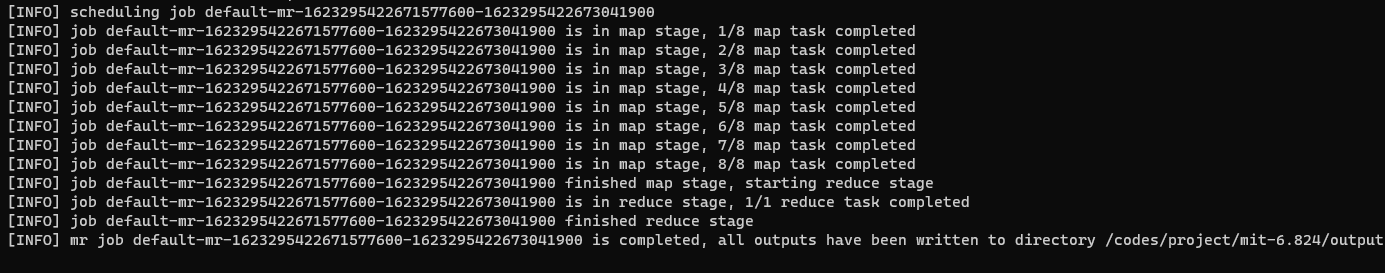
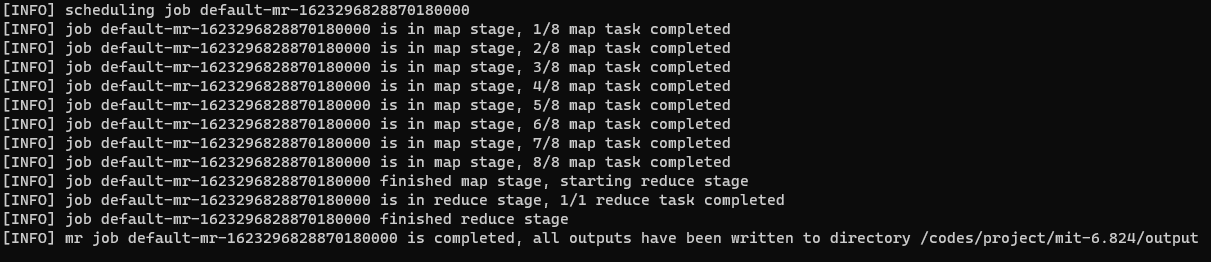
lab1[in progress]

Changed region(s): [[0.0, 0.0, 1.0, 0.9466]]

diff --git a/src/main/mrdriver.go b/src/main/mrdriver.go
@@ -39,7 +39,7 @@ func randomizeJobName(jn string) string {
 }
 
 var (
-	jobName       = flag.String("jobname", randomizeJobName("default-mr"), "Optional. the name of the job")
+	jobName       = flag.String("jobname", "default-mr", "Optional. the name of the job")
 	nReduce       = flag.Int("nReduce", 1, "Optional. the number of reducers")
 	inputFiles    = flag.String("inputs", "", `Required. input files, supporting the "*" wildcard character`)
 	outputDir     = flag.String("output", "", `Required. the directory where the outputs will be written to`)
